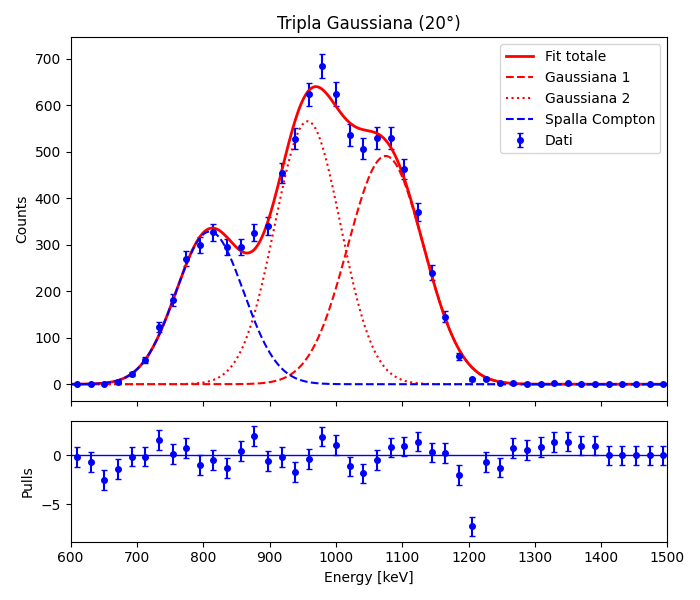
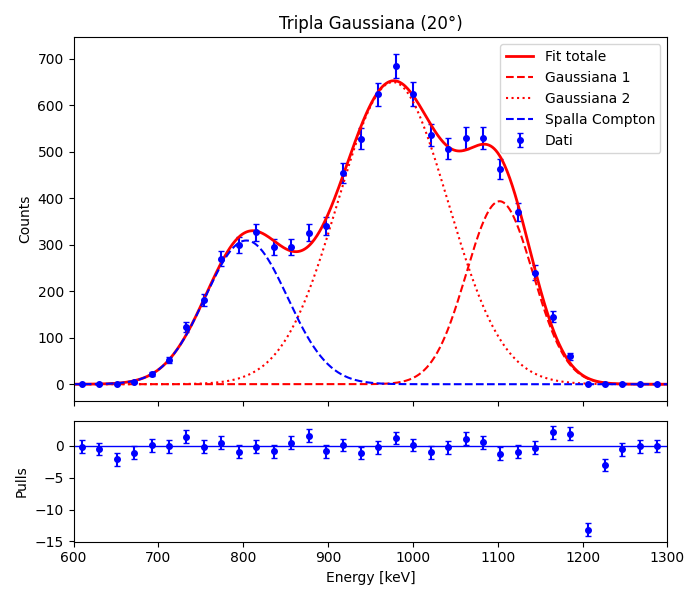
final relazione jacopo

diff --git a/Analisi/Rates.py b/Analisi/Rates.py
@@ -23,7 +23,7 @@ rate1 = pmt1/delta_t
 rate2 = pmt2/delta_t
 rate_both = both/delta_t
 
-sigma_rate1 = np.sqrt(pmt1)/delttaua_t
+sigma_rate1 = np.sqrt(pmt1)/delta_t
 sigma_rate2 = np.sqrt(pmt2)/delta_t
 sigma_rateboth = np.sqrt(both)/delta_t
 
